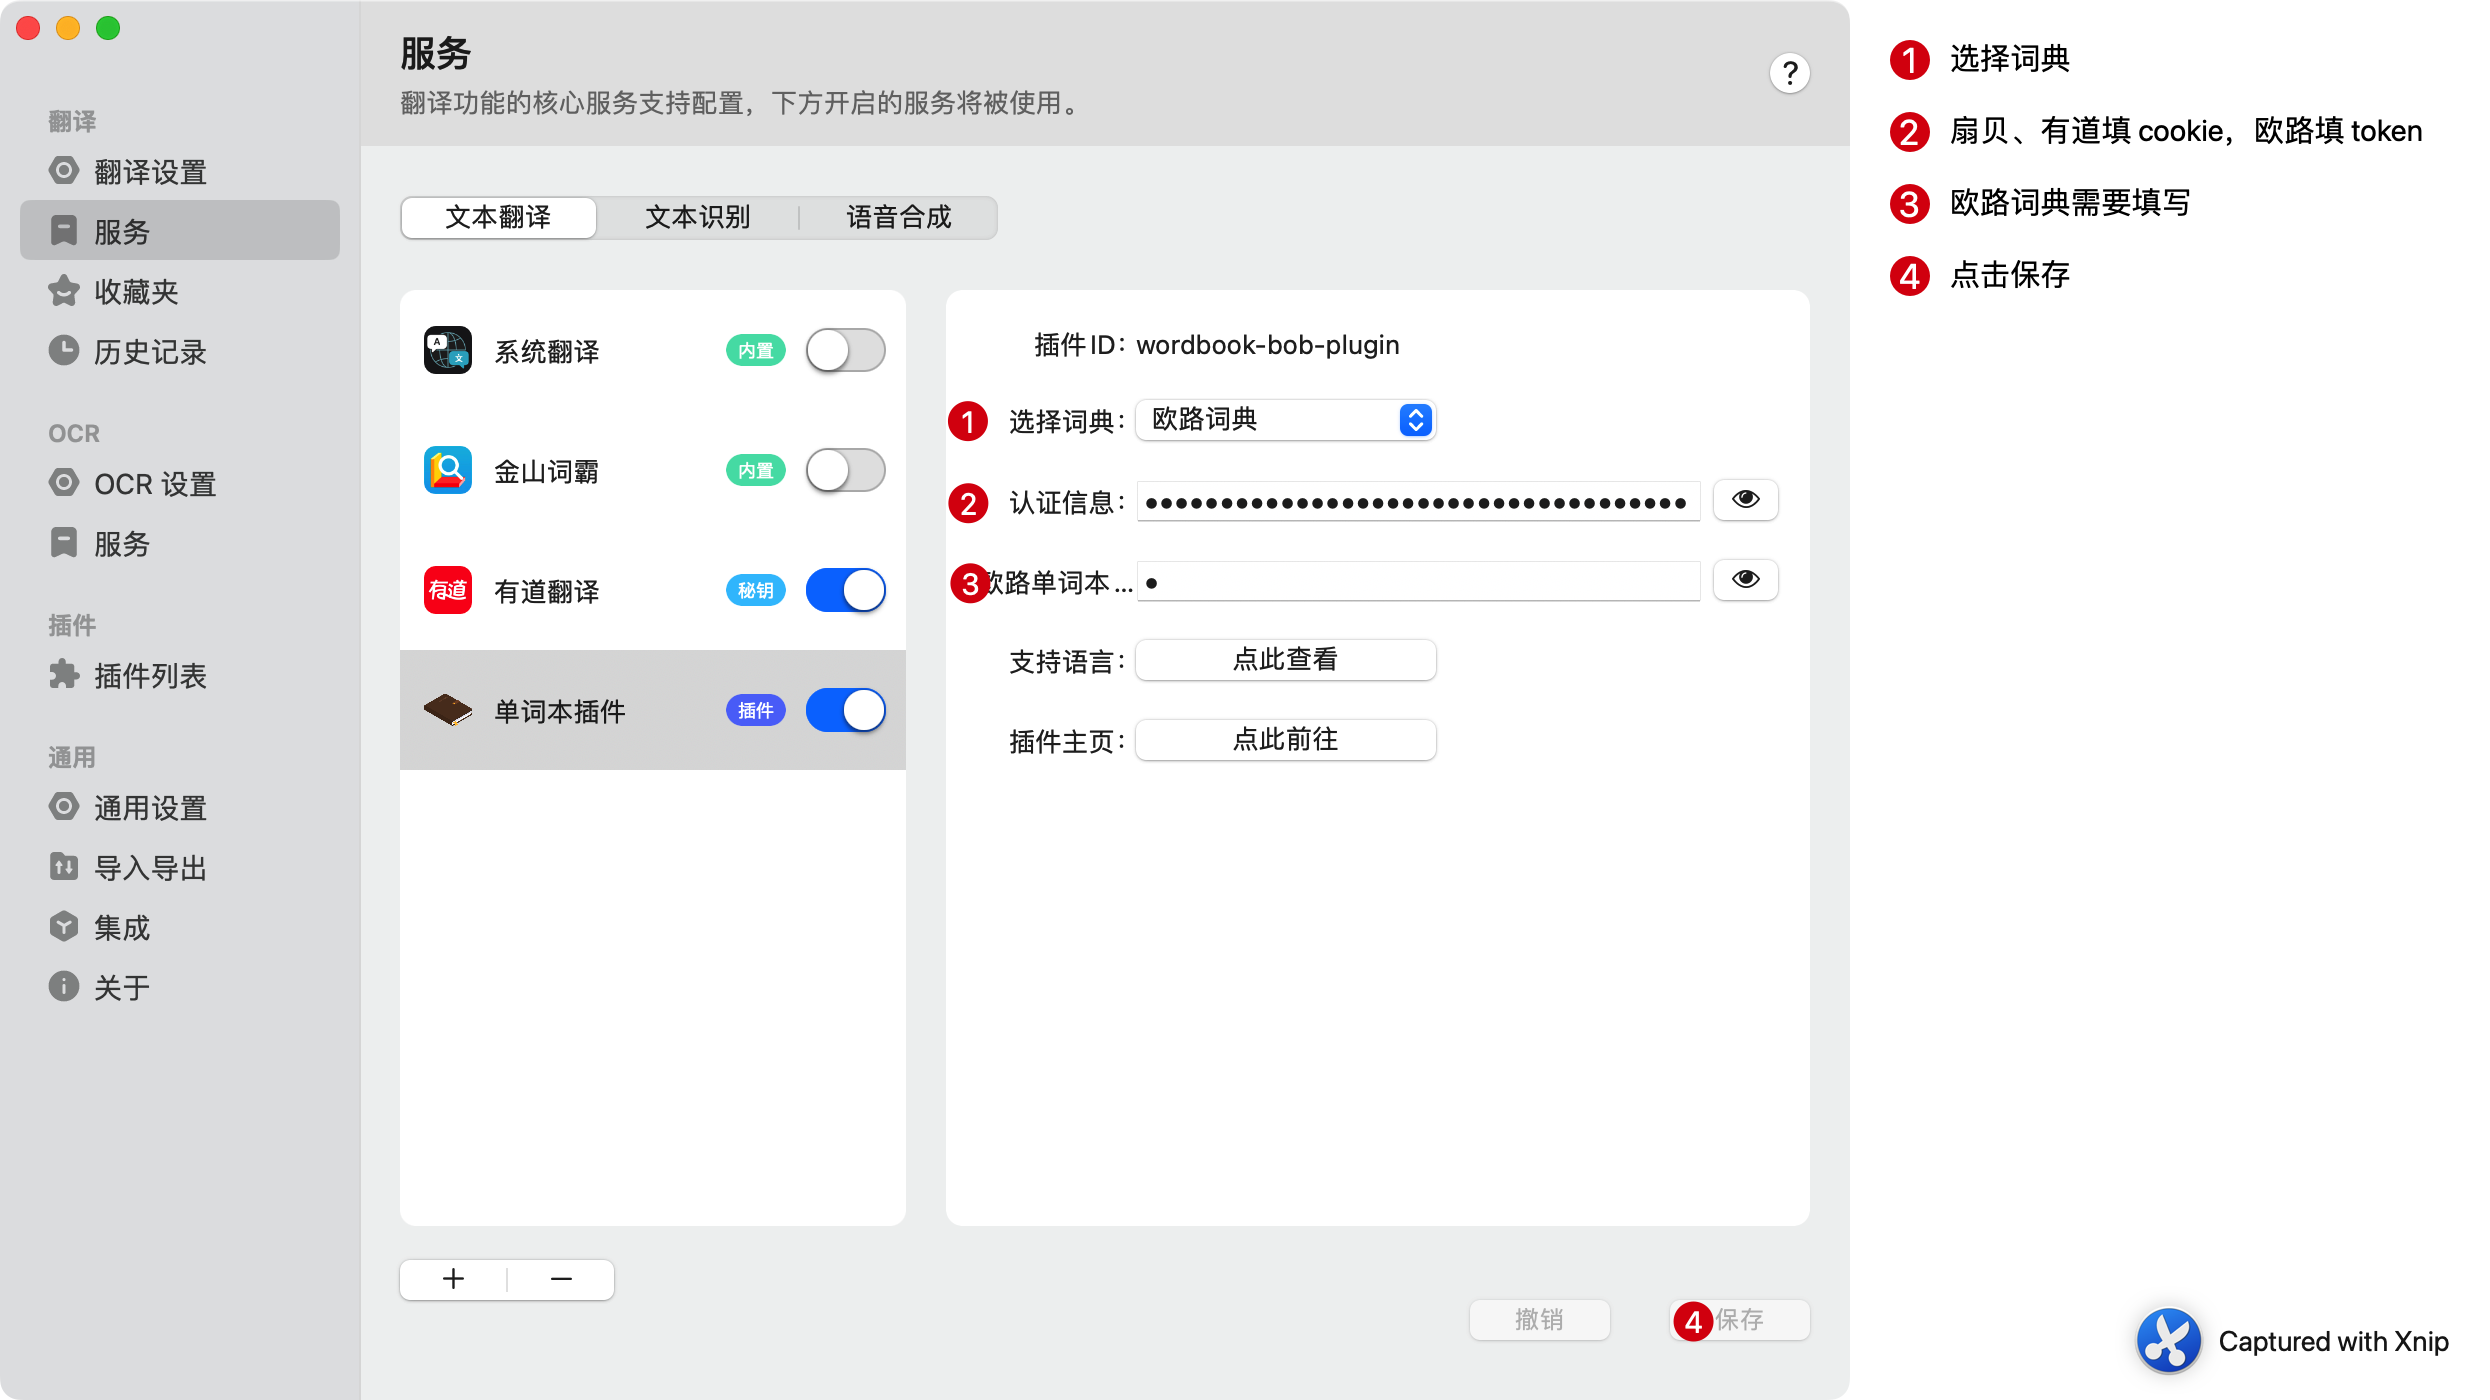
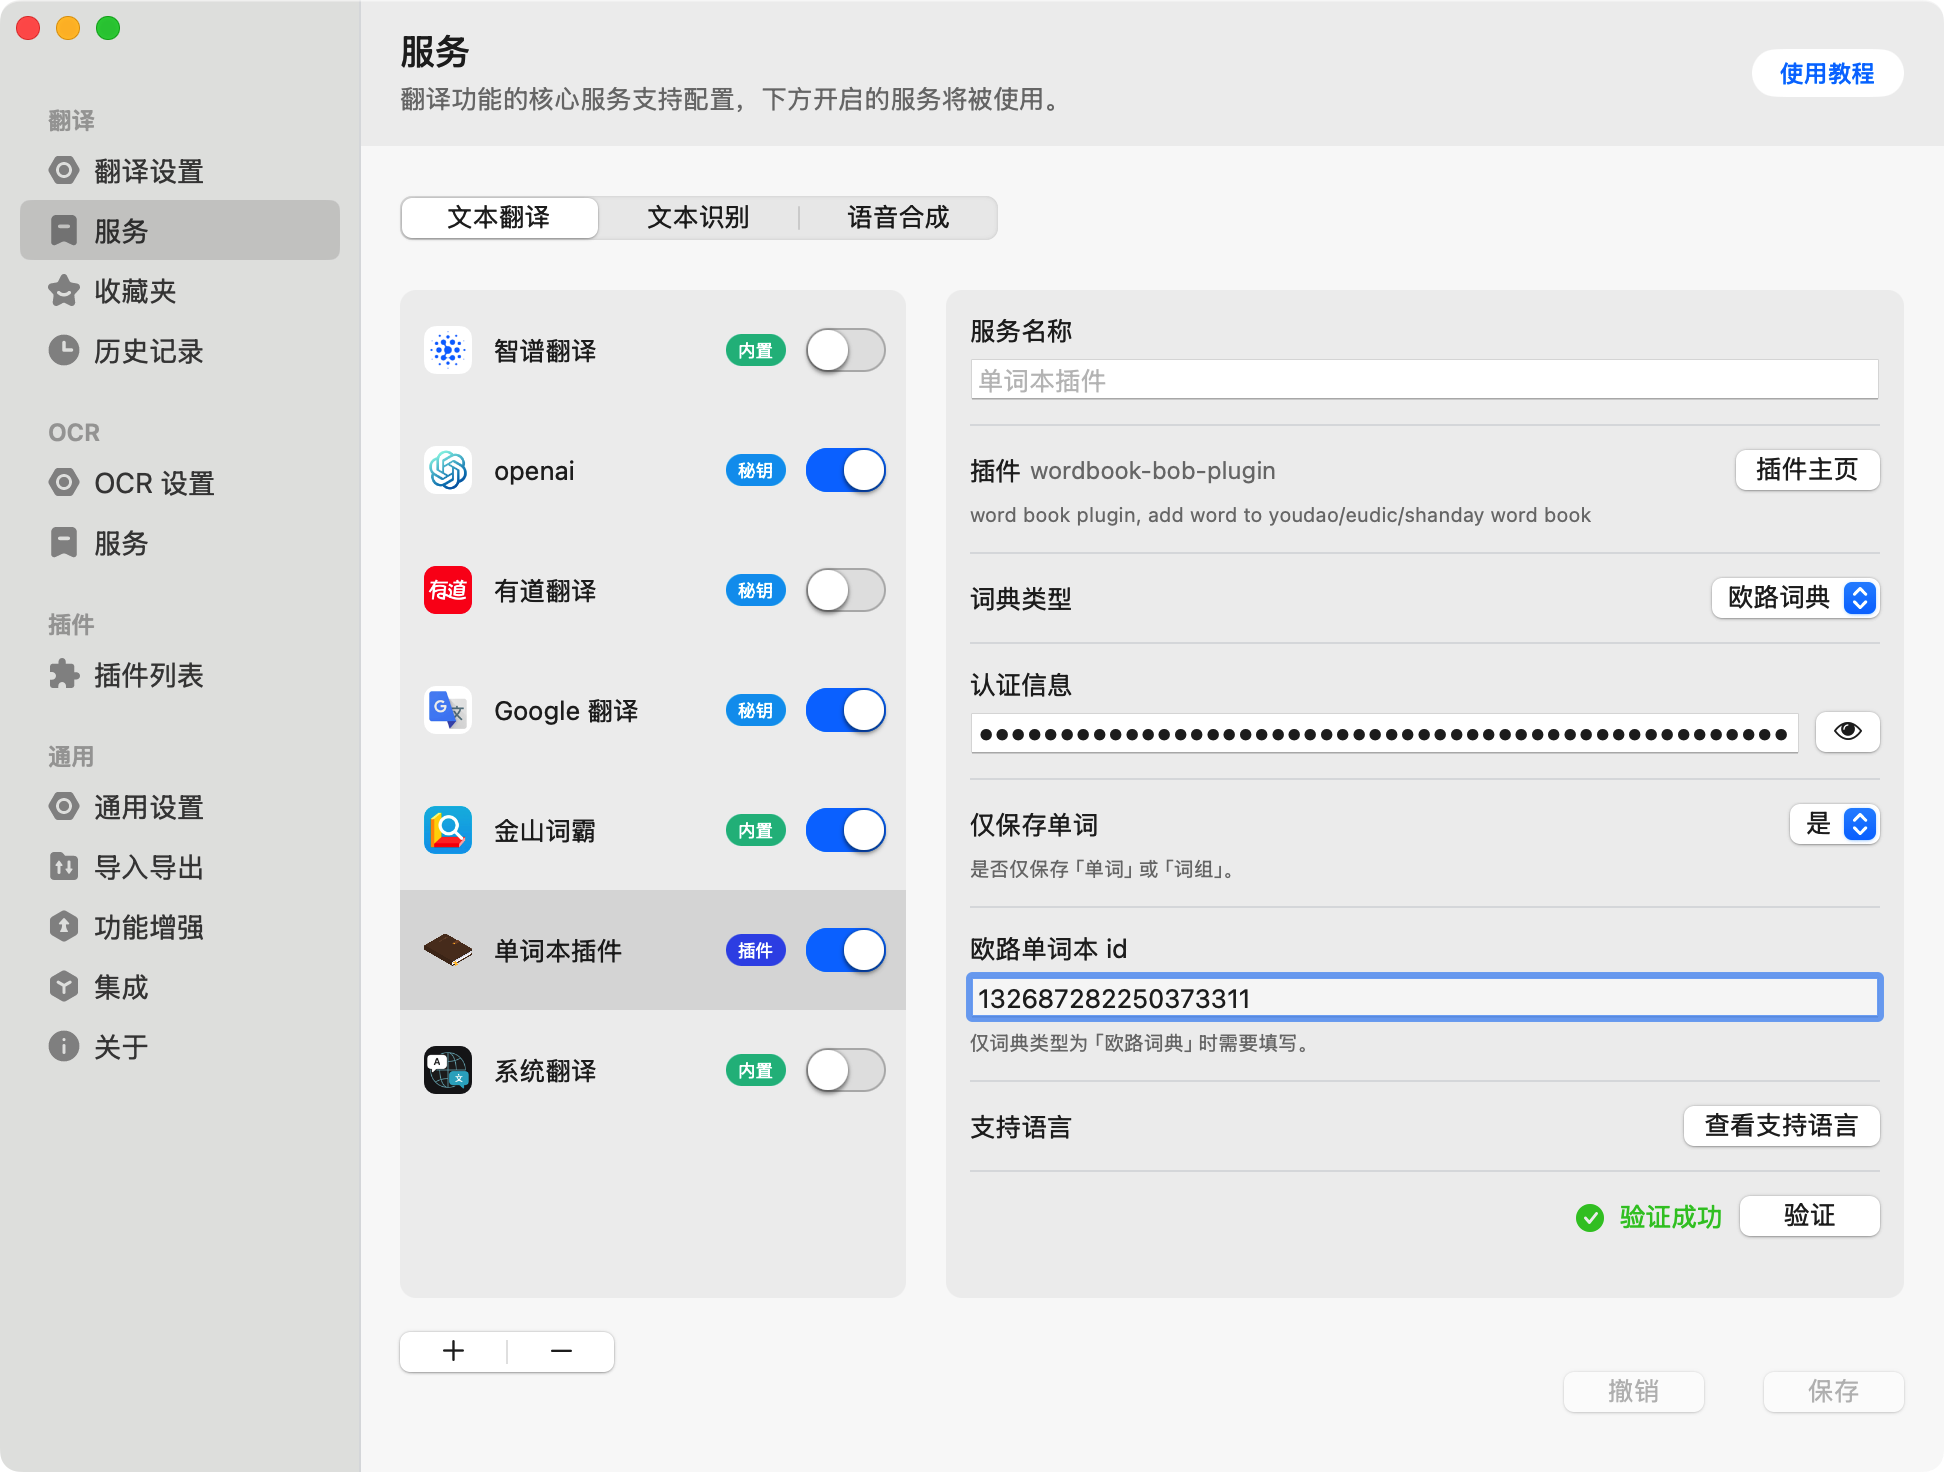
feat:优化欧路词典验证逻辑

diff --git a/src/main.js b/src/main.js
@@ -8,8 +8,7 @@ var YOUDAO_ADD_WORD_URL = "https://dict.youdao.com/wordbook/webapi/v2/ajax/add?l
 // 扇贝单词本
 var SHANBAY_ADD_WORD_URL = "https://apiv3.shanbay.com/wordscollection/words_bulk_upload"
 
-// 欧路单词本 ID
-var EUDIC_WORD_BOOK_ID
+// 欧路单词本
 var EUDIC_ADD_WORD_URL = "https://api.frdic.com/api/open/v1/studylist/words";
 var EUDIC_BOOK_LIST_URL = "https://api.frdic.com/api/open/v1/studylist/category?language=en";
 
@@ -41,10 +40,11 @@ function supportLanguages() {
 
 // override
 function pluginValidate(completion) {
+    var selected_dict = $option.dict_type;
     var authorization = $option.authorization;
-    var dict_type = $option.dict_type;
-    var wordbook_id = $option.wordbook_id
-    if (!authorization) {
+    if (authorization) {
+        doValidate(selected_dict, authorization, completion);
+    } else {
         completion({
             result: false,
             error: {
@@ -53,13 +53,26 @@ function pluginValidate(completion) {
                 troubleshootingLink: "https://github.com/yuhaowin/wordbook-bob-plugin"
             }
         });
-        return;
     }
-    if (dict_type == 2 && !wordbook_id) {
-        queryEudicWordbookIds(authorization, completion)
-        return
+}
+
+function doValidate(selected_dict, authorization, completion) {
+
+    // 验证欧路词典配置参数
+    if (selected_dict == 2) {
+        var wordbook_id = $option.wordbook_id
+        if (!wordbook_id) {
+            queryEudicWordbookIds(authorization, completion)
+        } else {
+            addWordEudic(authorization, 'test', wordbook_id, function (res) {
+                if (201 === res.response.statusCode) {
+                    completion({result: true});
+                } else {
+                    queryEudicWordbookIds(authorization, completion)
+                }
+            });
+        }
     }
-    completion({result: true});
 }
 
 function queryEudicWordbookIds(token, completion) {
@@ -99,31 +112,38 @@ function queryEudicWordbookIds(token, completion) {
 // override
 function translate(query, completion) {
     var text = query.text;
-    var fromLanguage = query.detectFrom;
-    var selectDict = $option.dict_type;
+    var from_language = query.detectFrom;
+    var selected_dict = $option.dict_type;
     var word_only = $option.word_only;
     var authorization = $option.authorization;
-    EUDIC_WORD_BOOK_ID = $option.wordbook_id;
     var need_save = (word_only == 0 || text.search(' ') < 1);
-    if (fromLanguage != 'en' || !need_save) {
+    if (from_language != 'en' || !need_save) {
         completion({'result': buildResult("中文、非英语单词无需添加单词本")});
         return;
     }
     if (authorization) {
-        addWord(selectDict, authorization, text, completion);
+        addWord(selected_dict, authorization, text, completion);
     } else {
         completion({'error': buildError('「认证信息」缺失')});
     }
 }
 
-function addWord(selectDict, authorization, word, completion) {
-    if (selectDict == 1) { // 保存有道单词本
+function addWord(selected_dict, authorization, word, completion) {
+    if (selected_dict == 1) { // 保存有道单词本
         addWordYoudao(authorization, word, completion);
     }
-    if (selectDict == 2) { // 保存欧路单词本
-        addWordEudic(authorization, word, completion);
+    if (selected_dict == 2) { // 保存欧路单词本
+        var wordbook_id = $option.wordbook_id;
+        addWordEudic(authorization, word, wordbook_id, function (res) {
+            if (201 === res.response.statusCode) {
+                completion({'result': buildResult("添加单词成功")});
+            } else {
+                completion({'error': buildError('欧路词典 token 错误或过期，请重新填写。')});
+                $log.info('addWord 接口返回值 data : ' + JSON.stringify(res.data));
+            }
+        });
     }
-    if (selectDict == 3) { // 保存扇贝单词本
+    if (selected_dict == 3) { // 保存扇贝单词本
         addWordShanbay(authorization, word, completion);
     }
 }
@@ -153,7 +173,7 @@ function addWordYoudao(cookie, word, completion) {
     });
 }
 
-function addWordEudic(token, word, completion) {
+function addWordEudic(token, word, wordbook_id, handler) {
     $http.post({
         url: EUDIC_ADD_WORD_URL,
         header: {
@@ -162,23 +182,13 @@ function addWordEudic(token, word, completion) {
             'User-Agent': 'Mozilla/5.0 (Macintosh; Intel Mac OS X 11_1_0) AppleWebKit/537.36 (KHTML, like Gecko) Chrome/87.0.4280.88 Safari/537.36'
         },
         body: {
-            "id": EUDIC_WORD_BOOK_ID, // 单词本 id
+            "id": wordbook_id, // 单词本 id
             "language": "en",
             "words": [
                 word
             ]
         },
-        handler: function (res) {
-            var data = res.data;
-            var response = res.response;
-            var statusCode = response.statusCode;
-            if (statusCode === 201) {
-                completion({'result': buildResult("添加单词成功")});
-            } else {
-                completion({'error': buildError('欧路词典 token 错误或过期，请重新填写。')});
-                $log.info('addWord 接口返回值 data : ' + JSON.stringify(data));
-            }
-        }
+        handler: handler
     });
 }
 

diff --git a/README.md b/README.md
@@ -1,6 +1,6 @@
 # wordbook-bob-plugin
 
-这是一个 [Bob](https://github.com/ripperhe/Bob) 的翻译插件，但是该插件不对输入的文本进行翻译，听起来不可思议，但的确如此，该插件主要是将输入的英文单词通过接口的方式同步到 `有道词典` 、`欧路词典`
+这是一个 [Bob](https://github.com/ripperhe/Bob) 的翻译插件，但是该插件不对输入的文本进行翻译，听起来不可思议，但的确如。该插件主要是将输入的英文单词或短语通过接口的方式同步到 `有道词典` 、`欧路词典`
 的单词本中，以方便对查询过的单词进行集中复习。
 
 ## 特性
